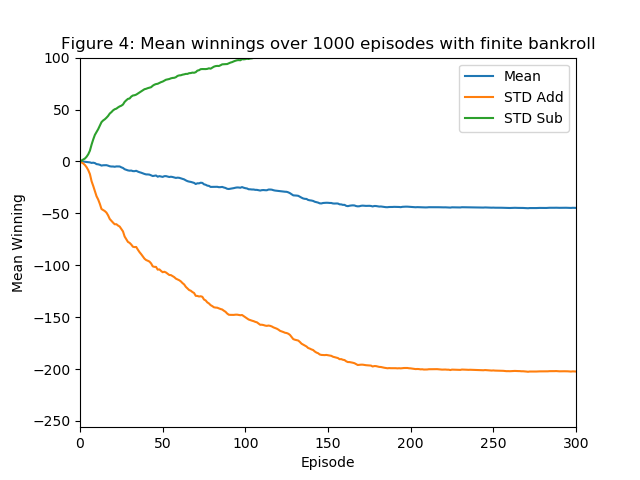
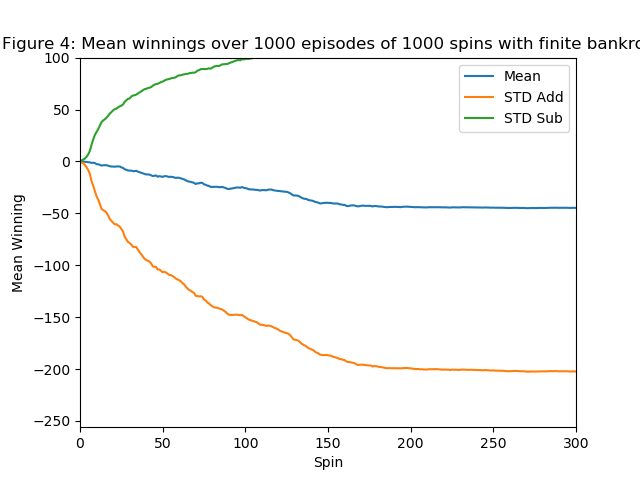
updated figure 1 axis label

Changed region(s): [[0.0, 0.0625, 1.0, 0.125], [0.4688, 0.9375, 0.5625, 1.0]]

diff --git a/martingale/martingale.py b/martingale/martingale.py
@@ -153,8 +153,8 @@ def experiment_1_2and3():
     plt.plot(means, label="Mean")
     plt.plot(bolinger1, label="STD Add")
     plt.plot(bolinger2, label="STD Sub")
-    plt.title("Figure 2: Mean winnings over 1000 episodes with infinite bankroll")
-    plt.xlabel("Episode")
+    plt.title("Figure 2: Mean winnings over 1000 episodes of 1000 spins with infinite bankroll")
+    plt.xlabel("Spin")
     plt.ylabel("Mean Winning")
     plt.xlim(0, 300)
     plt.ylim(-256, 100)
@@ -170,8 +170,8 @@ def experiment_1_2and3():
     plt.plot(median, label="Median")
     plt.plot(bolinger1, label="STD Add")
     plt.plot(bolinger2, label="STD Sub")
-    plt.title("Figure 3: Median winnings over 1000 episodes with infinite bankroll")
-    plt.xlabel("Episode")
+    plt.title("Figure 3: Median winnings over 1000 episodes of 1000 spins with infinite bankroll")
+    plt.xlabel("Spin")
     plt.ylabel("Median Winning")
     plt.xlim(0, 300)
     plt.ylim(-256, 100)
@@ -192,8 +192,8 @@ def experiment_1_4and5():
     plt.plot(means, label="Mean")
     plt.plot(bolinger1, label="STD Add")
     plt.plot(bolinger2, label="STD Sub")
-    plt.title("Figure 4: Mean winnings over 1000 episodes with finite bankroll")
-    plt.xlabel("Episode")
+    plt.title("Figure 4: Mean winnings over 1000 episodes of 1000 spins with finite bankroll")
+    plt.xlabel("Spin")
     plt.ylabel("Mean Winning")
     plt.xlim(0, 300)
     plt.ylim(-256, 100)
@@ -209,8 +209,8 @@ def experiment_1_4and5():
     plt.plot(median, label="Median")
     plt.plot(bolinger1, label="STD Add")
     plt.plot(bolinger2, label="STD Sub")
-    plt.title("Figure 5: Median winnings over 1000 episodes with finite bankroll")
-    plt.xlabel("Episode")
+    plt.title("Figure 5: Median winnings over 1000 episodes of 1000 spins with finite bankroll")
+    plt.xlabel("Spin")
     plt.ylabel("Median Winning")
     plt.xlim(0, 300)
     plt.ylim(-256, 100)
